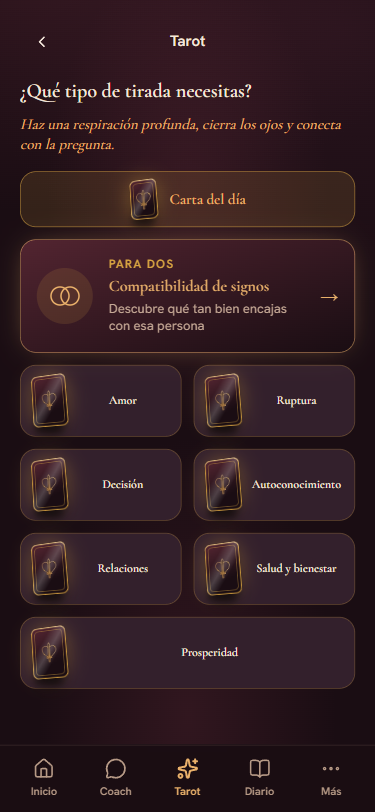
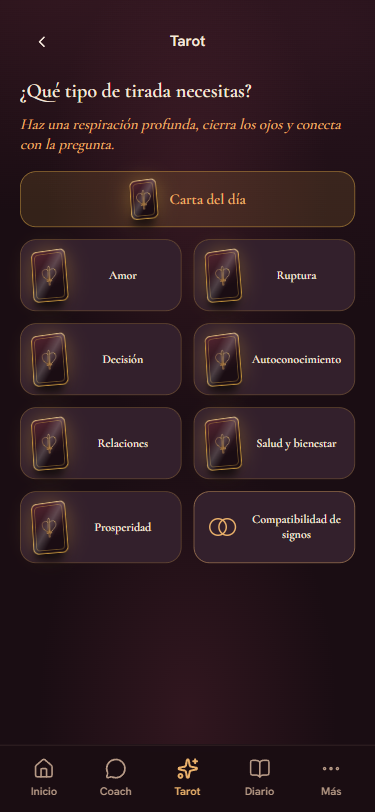
style(tarot): compatibilidad de signos como un cuadrito más de la cuadrícula

Changed region(s): [[0.0293, 0.2771, 0.968, 0.8621], [0.4987, 0.8005, 0.6453, 0.8313], [0.2053, 0.2771, 0.2347, 0.3079]]

diff --git a/app/app/(tabs)/tarot/page.tsx b/app/app/(tabs)/tarot/page.tsx
@@ -739,34 +739,6 @@ export default function TarotPage() {
             {cartaDia.nombre}
           </motion.button>
         )}
-        <motion.div variants={item}>
-          <Link
-            href="/app/compatibilidad"
-            className="relative flex items-center gap-4 overflow-hidden rounded-[var(--radius-card)] border border-[color-mix(in_oklab,var(--accent-lite)_55%,transparent)] bg-gradient-to-br from-[color-mix(in_oklab,var(--bloom-vino)_70%,var(--bg))] to-[var(--bg)] px-4 py-4 shadow-[0_0_28px_-10px_color-mix(in_oklab,var(--accent-lite)_55%,transparent)] [@media(max-height:720px)]:py-3"
-          >
-            <span
-              aria-hidden="true"
-              className="flex size-14 shrink-0 items-center justify-center rounded-full bg-[color-mix(in_oklab,var(--accent)_14%,transparent)] [@media(max-height:720px)]:size-12"
-            >
-              <svg width="34" height="24" viewBox="0 0 34 24" fill="none" stroke="var(--accent-lite)" strokeWidth="1.5">
-                <circle cx="12" cy="12" r="9" />
-                <circle cx="22" cy="12" r="9" />
-              </svg>
-            </span>
-            <span className="min-w-0 flex-1">
-              <span className="block text-xs font-semibold uppercase tracking-widest text-[var(--accent)]">Para dos</span>
-              <span className="mt-0.5 block text-base font-semibold text-[var(--accent-lite)] [font-family:var(--font-display)]">
-                Compatibilidad de signos
-              </span>
-              <span className="mt-0.5 block text-[13px] leading-snug text-[var(--text-secondary)] [@media(max-height:720px)]:hidden">
-                Descubre qué tan bien encajas con esa persona
-              </span>
-            </span>
-            <span aria-hidden="true" className="text-lg text-[var(--accent-lite)]">
-              →
-            </span>
-          </Link>
-        </motion.div>
         <div className="grid grid-cols-2 gap-3 [@media(max-height:720px)]:gap-2">
           {temas.map((t) => (
             <motion.button
@@ -783,6 +755,25 @@ export default function TarotPage() {
               </span>
             </motion.button>
           ))}
+          {/* Octavo cuadrito: cierra la cuadrícula en pares y saca la compatibilidad del fondo de la pantalla. */}
+          <motion.div variants={item} whileTap={{ scale: 0.97 }}>
+            <Link
+              href="/app/compatibilidad"
+              className="group flex h-[72px] items-center gap-2 rounded-[var(--radius-card)] border border-[color-mix(in_oklab,var(--accent-lite)_50%,transparent)] bg-[var(--surface)] px-2.5 [@media(max-height:720px)]:h-14 [@media(min-height:841px)]:h-20"
+            >
+              <span aria-hidden="true" className="flex h-[52px] w-9 shrink-0 items-center justify-center [@media(max-height:720px)]:h-10 [@media(max-height:720px)]:w-7 [@media(min-height:841px)]:h-14 [@media(min-height:841px)]:w-10">
+                <svg width="34" height="22" viewBox="0 0 34 24" fill="none" stroke="var(--accent-lite)" strokeWidth="1.6">
+                  <circle cx="12" cy="12" r="9" />
+                  <circle cx="22" cy="12" r="9" />
+                </svg>
+              </span>
+              <span className="flex min-w-0 flex-1 items-center justify-center">
+                <span className="text-center text-[13px] font-semibold leading-tight text-[var(--text-primary)] [font-family:var(--font-display)] max-[380px]:text-[12px]">
+                  Compatibilidad de signos
+                </span>
+              </span>
+            </Link>
+          </motion.div>
         </div>
       </motion.div>
     </div>

diff --git a/ESTADO.md b/ESTADO.md
@@ -1057,3 +1057,5 @@ sabemos / qué observamos / posible riesgo / pregunta para ti / qué podrías re
 🔄 2026-10-15: Coach — se RECUPERA la caja de saludo grande con las 3 frases abajo, junto a la caja de escribir (la dueña lo recordaba y lo pidió; yo lo había revertido). Frases: pensar en voz alta / entender qué siento / trabajo o dinero. Sin publicar.
 
 🔄 2026-10-15: Tarot — la compatibilidad de signos sube justo debajo de "Carta del día" como pieza destacada ("Para dos · Compatibilidad de signos", dos círculos entrelazados, borde dorado y resplandor); se quita el bloque "Más lecturas" del final. Captura tarot-compatibilidad-375. Sin publicar.
+
+🔄 2026-10-15: Tarot — la compatibilidad pasa a ser un cuadrito más de la cuadrícula (junto a Prosperidad, símbolo de dos círculos, borde dorado algo más marcado): ocho cuadritos en pares; se quita la tarjeta grande. Captura tarot-compatibilidad-375. Sin publicar.
